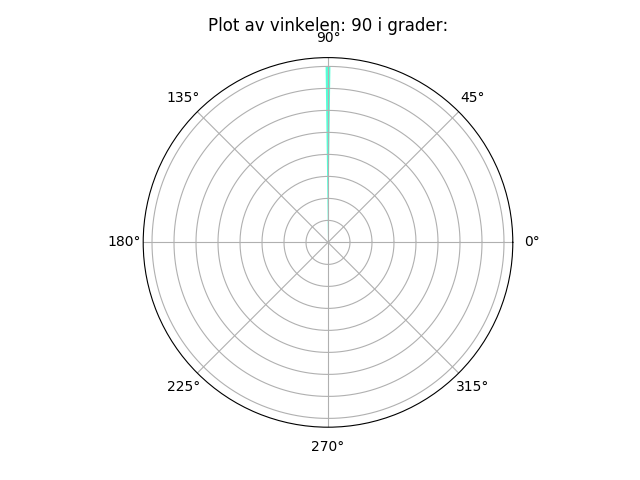
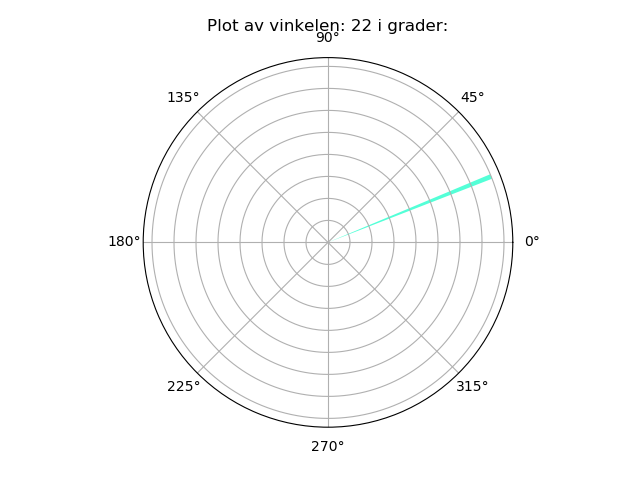
La til varians for theta

diff --git a/main.py b/main.py
@@ -6,7 +6,7 @@ import statistics as st
 
 # ---------- Specifications ---------- #
 A = 1.0
-SNR_db = 30 # In dB
+SNR_db = 60 # In dB
 
 SNR_linear = 10.0**(SNR_db/10)
 SIGMA_SQUARED = (A**2)/(2*SNR_linear)
@@ -18,10 +18,10 @@ f_0 = 10**5
 omega_0 = 2*np.pi*f_0
 theta = np.pi/8
 
-k = 16
+k = 20
 fft_length = 2**k
 
-ITERATIONS = 100 
+ITERATIONS = 1000
 
 # ---------- CRLB Helpers ---------- #
 P = (N*(N-1)) / 2
@@ -76,28 +76,40 @@ def main():
     
     print(" *--------------- RESULTS ---------------*")
 
-
-    error=[]
+    error_theta=[]
+    error_f=[]
     freqs = []
     thetas = []
     for i in range(ITERATIONS):
         f,t = iterate()
-        err = f_0 - f
-
+        err_f = f_0 - f
+        err_theta=theta-t
         freqs.append(f) # In hertz
-        error.append(err) 
+        error_f.append(err_f) 
         thetas.append(t)
+        error_theta.append(err_theta)
+
 
     print("Mean freq:",st.mean(freqs))
-    errmean=st.mean(error)
+    errmean=st.mean(error_f)
     print("Mean freq error is: ", errmean/1000, "kHz")
     thetamean = st.mean(thetas)
-    print("Mean theta is:", thetamean)
 
-    errvar=st.variance(error, errmean)
-    print("The variance of the freq error is: ",errvar, "Hz^2")
+    errvar_f=st.variance(error_f, errmean)
+    print("The variance of the freq error is: ",errvar_f, "Hz^2")
+
+    mean_error=st.mean(error_theta)
+
+    print("Mean theta is:", thetamean)
+    print("Mean theta error is: ", st.mean(error_theta))
+    print("The variance of the phase error is: ", st.variance(error_theta, mean_error))
 
     bml.circlePlot(int(bml.makeAnglePositive(thetamean*180/np.pi)))
+    
+    
+
+
+
 
      
 main()
